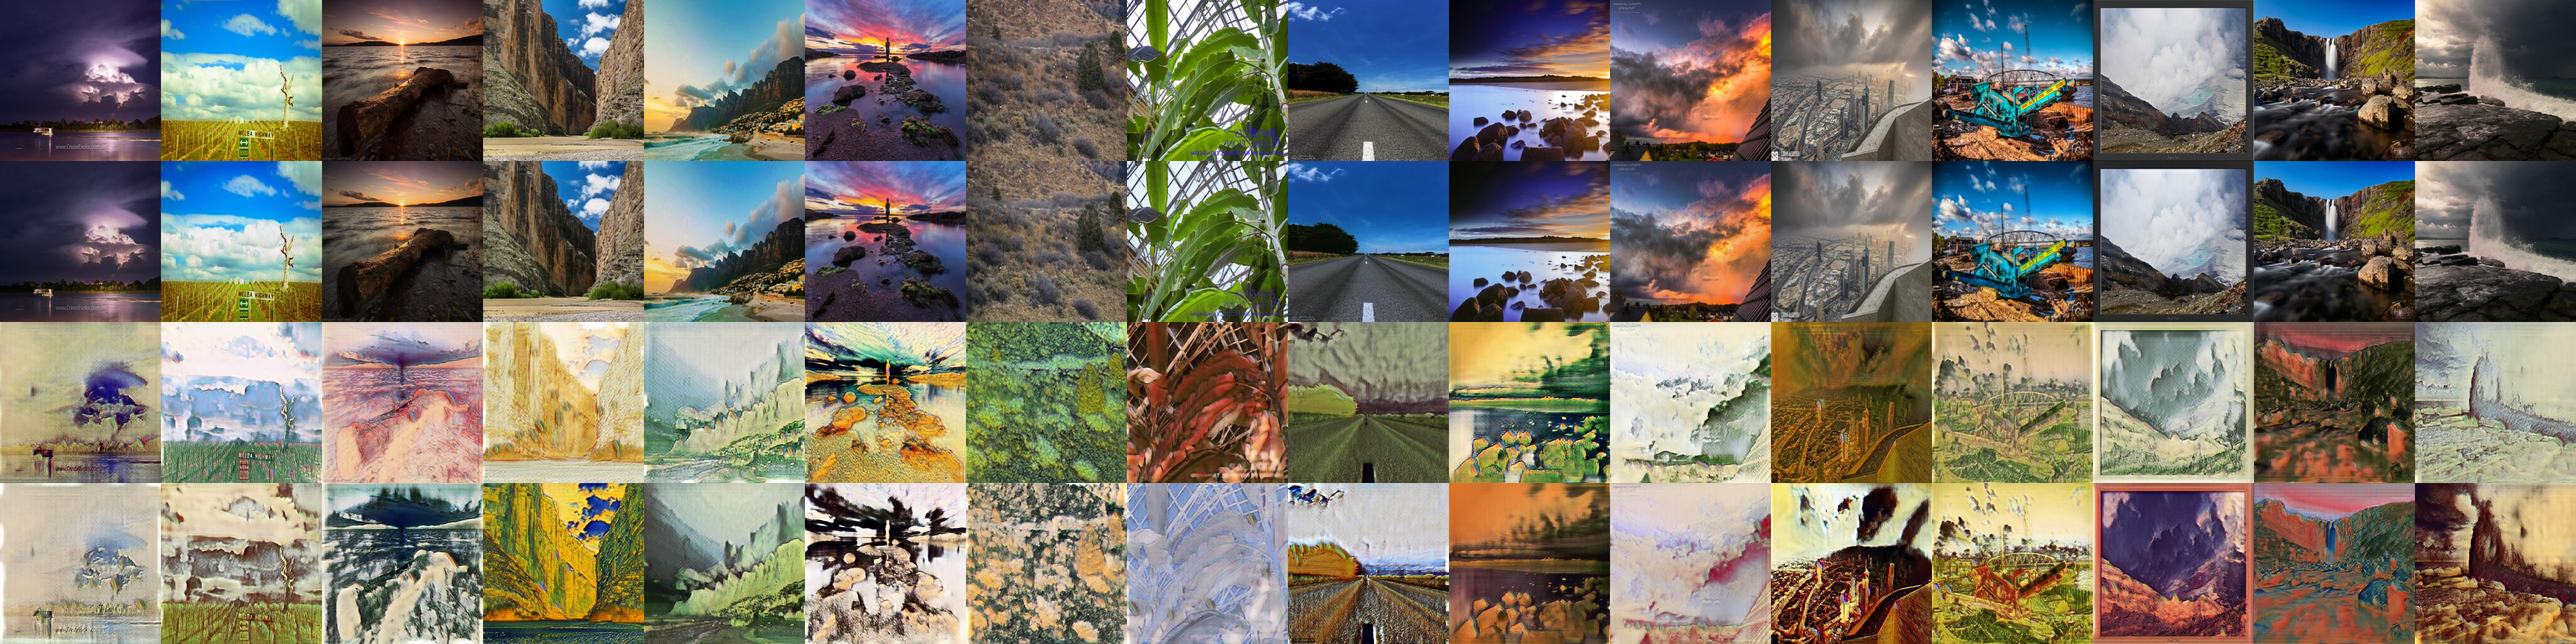
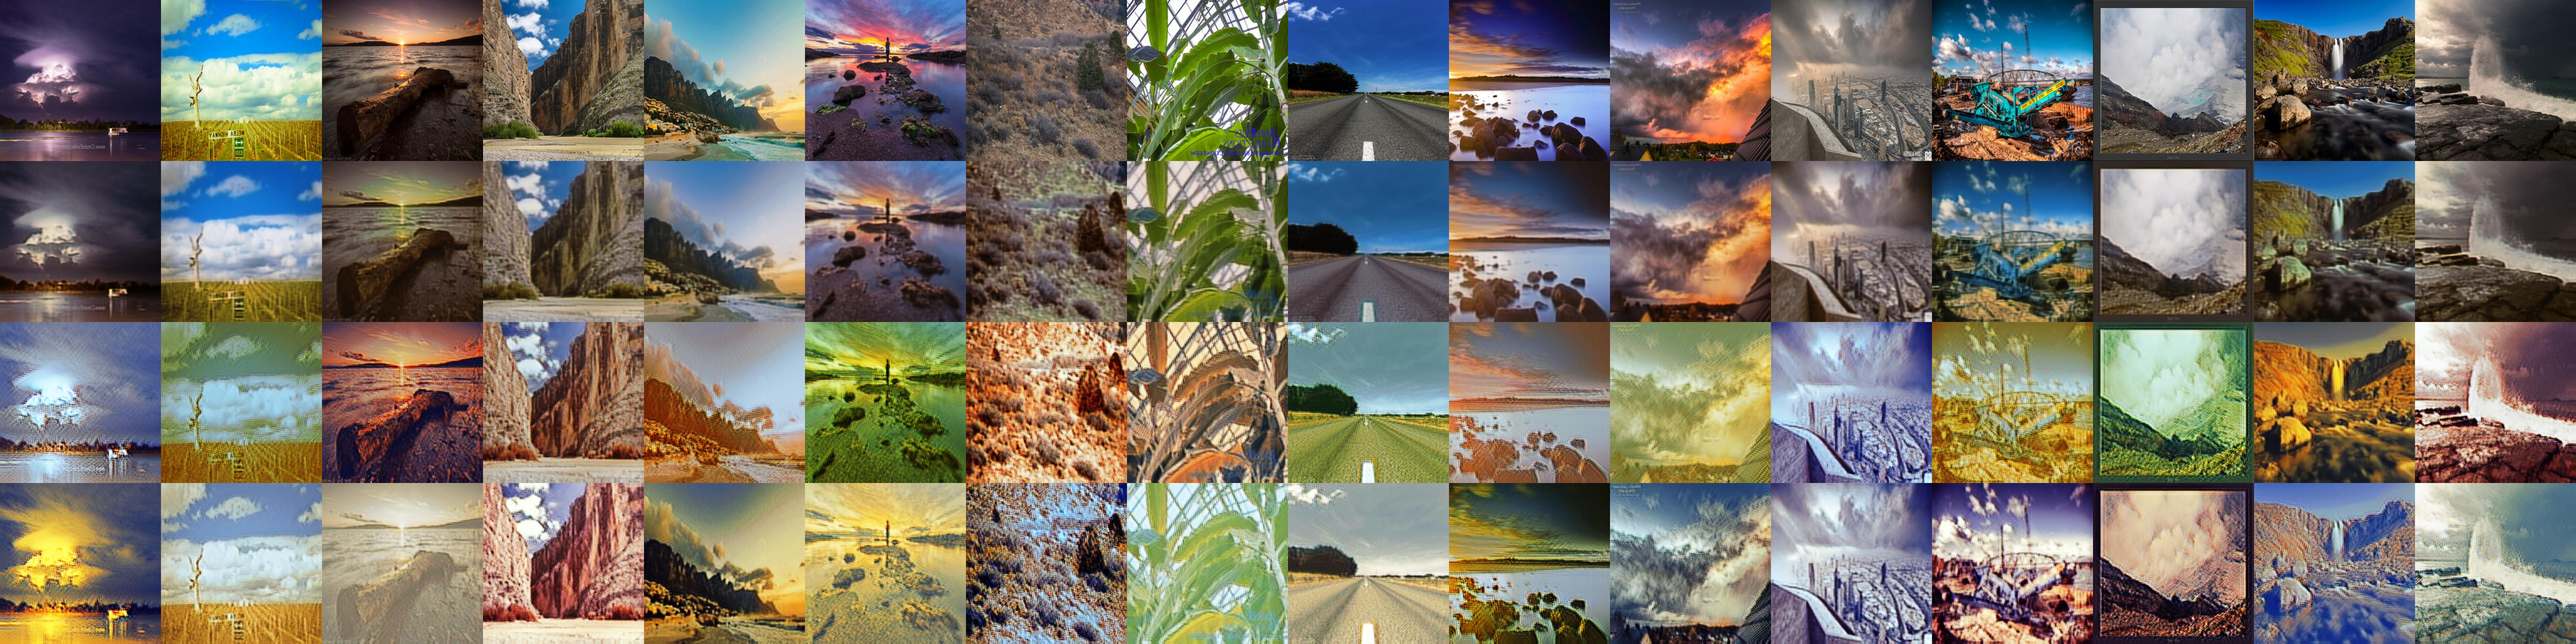
comeom

diff --git a/model/mixlow_model.py b/model/mixlow_model.py
@@ -57,10 +57,10 @@ params = {
 'step_size': 100000,             # how often to decay learning rate
 'gamma': 0.5,                    # how much to decay learning rate
 'gan_w': 1,                      # weight of adversarial loss
-'recon_x_w': 8,                  # weight of image reconstruction loss
-'recon_s_w': 2,                  # weight of style reconstruction loss
-'recon_c_w': 2,                  # weight of content reconstruction loss
-'recon_x_cyc_w': 2,              # weight of explicit style augmented cycle consistency loss
+'recon_x_w': 10,                 # weight of image reconstruction loss
+'recon_s_w': 1,                  # weight of style reconstruction loss
+'recon_c_w': 1,                  # weight of content reconstruction loss
+'recon_x_cyc_w': 1,              # weight of explicit style augmented cycle consistency loss
 'vgg_w': 0,                      # weight of domain-invariant perceptual loss
 
 # model options
